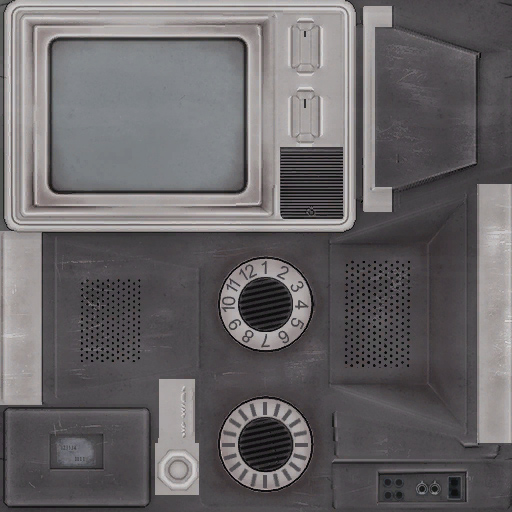
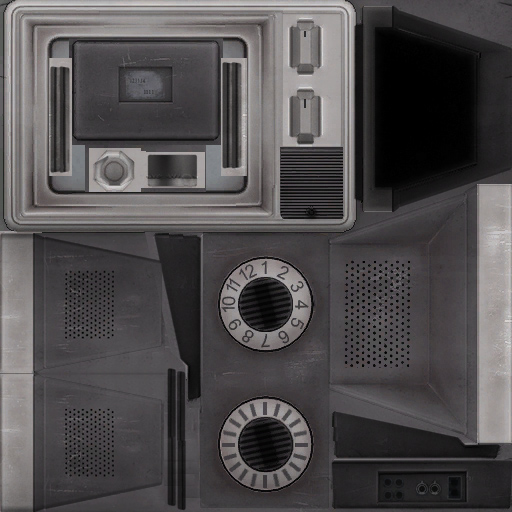
up

diff --git a/demos/experiments/seriously.js b/demos/experiments/seriously.js
@@ -1,6 +1,7 @@
 var timedEffects = [];
 var isSerious = false;
 var noiseTexture, seriously, simplex, noiseTarget, glitch, chroma, vignette;
+var b1, b2;
 var v = new V.View(110, 65, 130);
 v.tell('seriously');
 v.pool.load('tv', onload);
@@ -54,18 +55,31 @@ function onload(){
     m.tv.scale.set(4,4,-4);
     m.screen.scale.set(4,4,-4);
     m.border.scale.set(4,4,-4);
+    m.ground.scale.set(4,4,-4);
 
     var cc = new THREE.Group();
     cc.add(m.tv);
     cc.add(m.screen);
     cc.add(m.border);
+    cc.add(m.ground);
     cc.position.y = -10;
     v.scene.add(cc);
 
-    var tx = THREE.ImageUtils.loadTexture( 'images/tv.jpg')
+     
+
+    var tx = THREE.ImageUtils.loadTexture( 'images/tv.jpg');
+    var tx2 = THREE.ImageUtils.loadTexture( 'images/tvground.jpg');
     tx.flipY = false;
-    m.tv.material = new THREE.MeshBasicMaterial( { map:tx });
+    tx2.flipY = false;
+
+    var tvmat = new THREE.MeshBasicMaterial( { map:tx });
+    m.tv.material = tvmat;
+    b1 = m.tv.children[1];
+    b2 = m.tv.children[0];
+    b1.material = tvmat;
+    b2.material = tvmat;
     m.border.material = new THREE.MeshBasicMaterial( { color:0x292421 });
     m.screen.material = new THREE.MeshBasicMaterial( { color:0XFFFFFF });
+    m.ground.material = new V.Shader('MapShad', {tmap:tx2});
     initSerious(m.screen.material);
 }

diff --git a/shaders/MapShad.js b/shaders/MapShad.js
@@ -1,0 +1,21 @@
+V.MapShad={
+uniforms:{
+'tmap' : { type: 't', value: null },
+},
+fs:[
+'uniform sampler2D tmap;',
+'varying vec2 vUv;',
+'void main(){',
+'    vec3 color = vec3(0.0, 0.0, 0.0);',
+'    vec3 tx = texture2D(tmap, vUv).xyz;',
+'    gl_FragColor = vec4(color.x, color.y, color.z, tx.x);',
+'}'
+].join('\n'),
+vs:[
+'varying vec2 vUv;',
+'void main(){',
+'    vUv = uv;',
+'    gl_Position = projectionMatrix * modelViewMatrix * vec4(position,1.0);',
+'}'
+].join('\n')
+}
